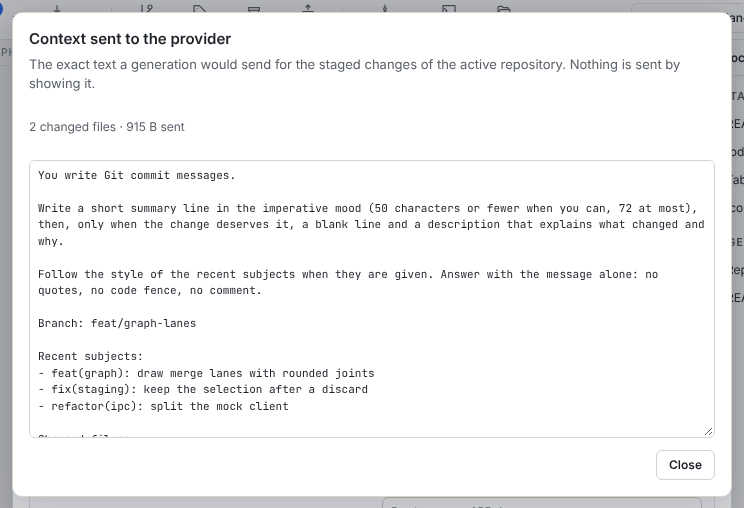
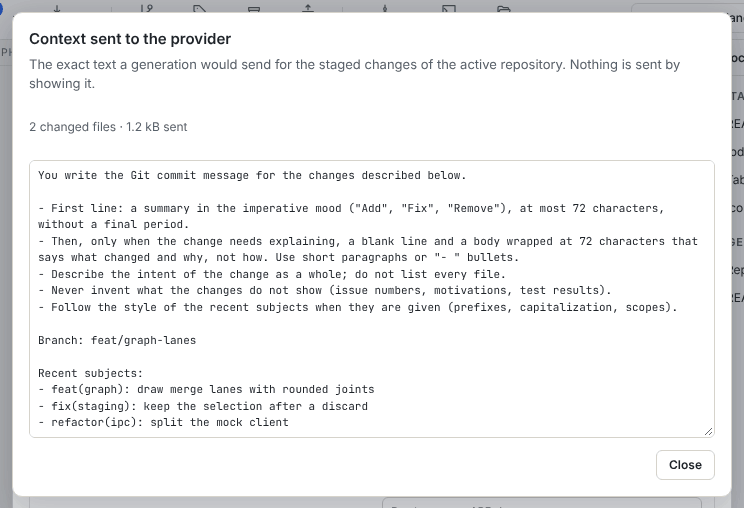
fix(ai): mock uses the real default prompt; refresh the AI docs screenshots
The docs screenshots of the prompt editor and the context preview showed a mock-only
prompt. M10 tasks marked PR open.

Claude-Session: https://claude.ai/code/session_01SaufxLrQCXbXSBTYLmsaPS

Changed region(s): [[0.0309, 0.3839, 0.9583, 0.8563], [0.1237, 0.3248, 0.6183, 0.3543], [0.1546, 0.2362, 0.2473, 0.2657]]

diff --git a/src/ipc/mock/ai.ts b/src/ipc/mock/ai.ts
@@ -27,11 +27,15 @@ import {
 
 import { DEFAULT_AI_PREFERENCES } from '../aiDefaults';
 
-const MOCK_DEFAULT_PROMPT = `You write Git commit messages.
+// Same text as `DEFAULT_PROMPT` in src-tauri/src/ai/prompt.rs, so the mock and the docs
+// screenshots show what the app really uses.
+const MOCK_DEFAULT_PROMPT = `You write the Git commit message for the changes described below.
 
-Write a short summary line in the imperative mood (50 characters or fewer when you can, 72 at most), then, only when the change deserves it, a blank line and a description that explains what changed and why.
-
-Follow the style of the recent subjects when they are given. Answer with the message alone: no quotes, no code fence, no comment.`;
+- First line: a summary in the imperative mood ("Add", "Fix", "Remove"), at most 72 characters, without a final period.
+- Then, only when the change needs explaining, a blank line and a body wrapped at 72 characters that says what changed and why, not how. Use short paragraphs or "- " bullets.
+- Describe the intent of the change as a whole; do not list every file.
+- Never invent what the changes do not show (issue numbers, motivations, test results).
+- Follow the style of the recent subjects when they are given (prefixes, capitalization, scopes).`;
 
 export function mockDefaultPrompt(): string {
   return MOCK_DEFAULT_PROMPT;

diff --git a/e2e/ai-commit-message.spec.ts b/e2e/ai-commit-message.spec.ts
@@ -99,14 +99,14 @@ for (const { name: theme, colorScheme } of THEMES) {
       await start(page, { enabled: true, key: true });
       const dialog = await openAiTab(page);
       const prompt = dialog.getByLabel('Instructions');
-      await expect(prompt).toHaveValue(/You write Git commit messages/);
+      await expect(prompt).toHaveValue(/You write the Git commit message for the changes/);
       await expect(dialog.getByText('Built-in prompt, kept up to date by yaggui.')).toBeVisible();
 
       await prompt.fill('Write haiku commit messages.');
       await prompt.blur();
       await expect(dialog.getByText(/Customized/)).toBeVisible();
       await dialog.getByRole('button', { name: 'Reset to default' }).click();
-      await expect(prompt).toHaveValue(/You write Git commit messages/);
+      await expect(prompt).toHaveValue(/You write the Git commit message for the changes/);
       await expect(dialog.getByText('Built-in prompt, kept up to date by yaggui.')).toBeVisible();
 
       // Typing the built-in text back is saved as "follow the default" too.

diff --git a/docs/PLAN.md b/docs/PLAN.md
@@ -223,7 +223,7 @@ Exit: the defects found by the full code review of 0.8.0 (backend, frontend, sec
 
 **Milestone status**: every task is merged (#76 to #82, plan and changelog in #83, follow-ups in #85 and #86); the merged tree passes `pnpm check`, `cargo clippy` / `cargo test` and the Playwright suite together. Open points noted by the fix PRs, decided by the PO: auto-fetch runs for every open repository (M9-8, #85), ⌘Q on macOS accepted as is (a panel resize in the last 300 ms before ⌘Q on macOS is not saved), a reset is refused while a merge, rebase, cherry-pick, revert or bisect is in progress, with `operationInProgress` (M9-9, #86).
 
-## M10 — AI commit messages · in progress
+## M10 — AI commit messages · PR open
 
 Exit: with the feature turned on in the preferences, a click (or the palette, or a shortcut) fills the commit message from the staged changes through Claude, either with an API key or with the user's Claude Code (and one of its skills). Off by default; nothing leaves the machine until the user turns it on.
 
@@ -237,9 +237,9 @@ Design:
 
 | ID | Task | Depends on | Requirements |
 |---|---|---|---|
-| M10-1 🟦 | Backend: `ai/` module, provider trait, Claude API and Claude Code providers, keychain, skill discovery, context builder, commands (`ai_generate_commit_message`, `ai_cancel`, `ai_test_provider`, `ai_set_api_key`, `ai_clear_api_key`, `ai_status`, `ai_list_skills`, `ai_default_prompt`), AI preferences, command log entries, tests; contract pushed first | — | F-072 to F-075 |
-| M10-2 🟦 | Front: AI preferences tab, commit area button / cancel / restore, palette action and shortcut, mock client parity, i18n FR / EN, Vitest and Playwright captures in both themes | M10-1 (contract) | F-072 to F-075 |
-| M10-3 🟦 | Docs EN / FR (new page, preferences and commit pages), changelog, shortcuts data | M10-1, M10-2 | — |
+| M10-1 🟨 | Backend: `ai/` module, provider trait, Claude API and Claude Code providers, keychain, skill discovery, context builder, commands (`ai_generate_commit_message`, `ai_cancel`, `ai_test_provider`, `ai_set_api_key`, `ai_clear_api_key`, `ai_status`, `ai_list_skills`, `ai_default_prompt`), AI preferences, command log entries, tests; contract pushed first | — | F-072 to F-075 |
+| M10-2 🟨 | Front: AI preferences tab, commit area button / cancel / restore, palette action and shortcut, mock client parity, i18n FR / EN, Vitest and Playwright captures in both themes | M10-1 (contract) | F-072 to F-075 |
+| M10-3 🟨 | Docs EN / FR (new page, preferences and commit pages), changelog, shortcuts data | M10-1, M10-2 | — |
 
 Order: M10-1 pushes its contract first; M10-2 starts on the mock as soon as it is pushed; M10-3 at the end. One PR for the milestone.
 
